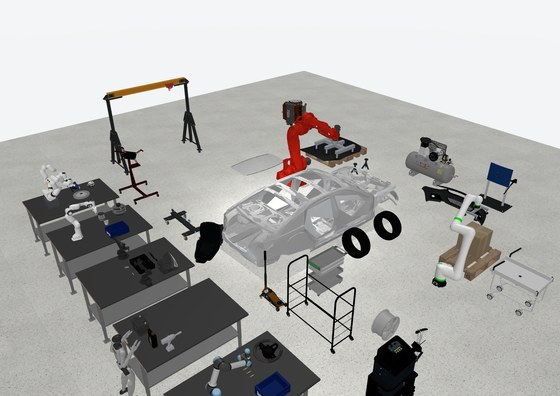
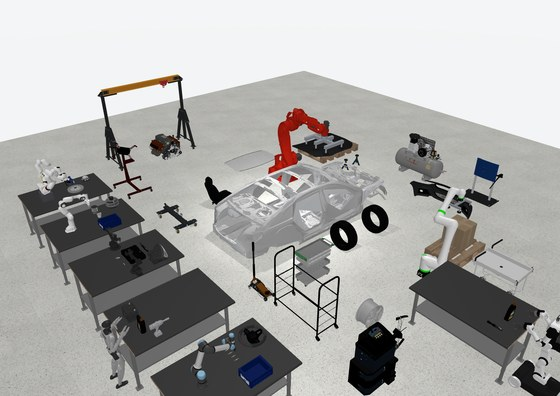
Add the RB-Y1 wheeled humanoid to the Factory and Car assembly scenes
A robot on wheels has an open cell (no work-box walls), so it can drive around the
whole scene. Each scene now has eight robots.

Claude-Session: https://claude.ai/code/session_015thBKAjNfHc5SK4ESAEDUz

Changed region(s): [[0.0304, 0.1818, 1.0, 1.0], [0.9714, 0.697, 1.0, 0.7273], [0.9411, 0.6667, 0.9714, 0.697]]

diff --git a/playground/static/index.html b/playground/static/index.html
@@ -1555,11 +1555,11 @@ function drawStarter() {
     <div class="tcard"><img src="/pg/static/scene_wetlab.jpg" alt="Four robots in a wet lab"><div class="rx"><div><b>Wet lab scene</b><div class="small">A whole wet lab: four benches, biosafety cabinet, fume hood, CO2 incubator and lab fridge. Four robots, each with a task ready: centrifuge, plate reader, jar lid and tube rack.</div></div>
     <div class="tags"><span class="tag">4 robots · UR5e, Franka, FR3 Duo, G1</span></div>
     <button class="primary" data-preset="wetlab">Add to lab</button></div></div>
-    <div class="tcard"><img src="/pg/static/scene_factory.jpg" alt="Seven robots on a factory assembly line"><div class="rx"><div><b>Factory scene</b><div class="small">An assembly line: a roller conveyor with totes and boxes, six assembly benches, pallet racks and a forklift. Seven robots, each with a task ready: pegs, a task board, a gearbox, breakers, cable plugs, a valve and stacking boxes.</div></div>
-    <div class="tags"><span class="tag">7 robots · Franka, UR5e, FR3 Duo, ALOHA, PiPER, G1, FANUC CRX-30iA</span></div>
+    <div class="tcard"><img src="/pg/static/scene_factory.jpg" alt="Eight robots on a factory assembly line"><div class="rx"><div><b>Factory scene</b><div class="small">An assembly line: a roller conveyor with totes and boxes, six assembly benches, pallet racks and a forklift. Eight robots, each with a task ready: pegs, a task board, a gearbox, breakers, cable plugs, a valve, stacking boxes, and a wheeled humanoid that drives around the line.</div></div>
+    <div class="tags"><span class="tag">8 robots · Franka, UR5e, FR3 Duo, ALOHA, PiPER, G1, FANUC CRX-30iA, RB-Y1</span></div>
     <button class="primary" data-preset="factory">Add to lab</button></div></div>
-    <div class="tcard"><img src="/pg/static/scene_car.jpg" alt="Seven robots building a car"><div class="rx"><div><b>Car assembly scene</b><div class="small">A car body with a 220 kg Comau arm that lifts the hood on by vacuum, a FANUC arm, and benches for brakes, engine parts, electrics and tools. Seven robots, each with a task ready.</div></div>
-    <div class="tags"><span class="tag">7 robots · Comau N-220, FANUC CRX-30iA, FR3 Duo, Franka, ALOHA, G1, UR5e</span></div>
+    <div class="tcard"><img src="/pg/static/scene_car.jpg" alt="Eight robots building a car"><div class="rx"><div><b>Car assembly scene</b><div class="small">A car body with a 220 kg Comau arm that lifts the hood on by vacuum, a FANUC arm, and benches for brakes, engine parts, electrics and tools, and a wheeled humanoid that drives to the car. Eight robots, each with a task ready.</div></div>
+    <div class="tags"><span class="tag">8 robots · Comau N-220, FANUC CRX-30iA, FR3 Duo, Franka, ALOHA, G1, UR5e, RB-Y1</span></div>
     <button class="primary" data-preset="car">Add to lab</button></div></div>`;
   $('rcards').querySelectorAll('button[data-r]').forEach(b => b.onclick = () => startPlacing(b.dataset.r, b.dataset.kind || 'table'));
   $('rcards').querySelectorAll('button[data-preset]').forEach(b => b.onclick = () => { closeAdd(); window.sceneGen && window.sceneGen.preset(b.dataset.preset); });

diff --git a/playground/scenegen.py b/playground/scenegen.py
@@ -546,8 +546,8 @@ SLEEP = {"flag": {"sleep": True}, "option": {"sleep_tolerance": 0.01}}
 PRESETS["factory"] = {
     "title": "Factory", "label": "Factory",
     "plan": "An assembly line: a roller conveyor down the middle carrying totes and boxes, six assembly "
-            "benches along it, a FANUC arm stacking boxes on a pallet at the end, and pallet racks, a "
-            "forklift and drums around it.",
+            "benches along it, a FANUC arm stacking boxes on a pallet at the end, a wheeled humanoid that "
+            "drives around the line, and pallet racks, a forklift and drums around it.",
     "settings": SLEEP,
     "stations": [
         {"robot": "franka", "kind": "table", "x": -3.2, "y": 2.05, "yaw": -90,
@@ -564,6 +564,9 @@ PRESETS["factory"] = {
          "task": "Turn the ball valve's handle a quarter turn to close the valve."},
         {"robot": "crx30ia", "kind": "pallet", "x": 2.8, "y": -1.2, "yaw": -90,
          "task": "Pick the cardboard box up off the roller conveyor with the vacuum tool and set it down on the pallet."},
+        # a wheeled humanoid at the head of the line: its cell is open, so it can drive anywhere
+        {"robot": "rby1", "kind": "conveyor", "x": -5.07, "y": 0.0, "yaw": 90,
+         "task": "Pick up the air ratchet from the conveyor in front of you, drive around the end of the conveyor to the steel drums, and set it down on top of a drum."},
     ],
     "furniture": [
         {"item": "roller_conveyor", "x": -3.03, "y": 0.0, "yaw": 90, "gap": 0},
@@ -582,7 +585,7 @@ PRESETS["factory"] = {
         {"item": "safety_fence", "x": 2.2, "y": -3.0, "yaw": 0},
         {"item": "modular_workbench", "x": -5.4, "y": -2.2, "yaw": -90},
         {"item": "shop_cart", "x": 2.3, "y": 3.9, "yaw": 0},
-        {"item": "pallet_jack", "x": -5.3, "y": -0.3, "yaw": 90},
+        {"item": "pallet_jack", "x": 4.9, "y": 3.2, "yaw": 0},
     ],
     "objects": [
         # on the conveyor (furniture 0-2: its own long side is its y)
@@ -605,6 +608,8 @@ PRESETS["factory"] = {
         {"item": "connector_pack", "on": "station", "station": 4, "x": 0.1, "y": 0.0, "yaw": 0},
         {"item": "ball_valve", "on": "station", "station": 5, "x": -0.6, "y": 0.0, "yaw": 90},
         {"item": "toolbox", "on": "station", "station": 5, "x": -0.55, "y": -0.42, "yaw": 0},
+        {"item": "air_ratchet", "on": "station", "station": 7, "x": -0.25, "y": 0.0, "yaw": 90},
+        {"item": "load_carrier", "on": "station", "station": 7, "x": 0.0, "y": -0.6, "yaw": 0},
     ],
 }
 
@@ -612,7 +617,7 @@ PRESETS["car"] = {
     "title": "Car assembly", "label": "Car assembly",
     "plan": "A car assembly bay: a car body in the middle with a big Comau arm that lifts the hood and "
             "windscreen onto it, a FANUC arm moving boxed parts, benches for brakes, engine parts, "
-            "electrics and tools, and garage equipment around them.",
+            "electrics and tools, a wheeled humanoid that drives to the car, and garage equipment around them.",
     "settings": SLEEP,
     "stations": [
         {"robot": "n220", "kind": "car", "x": 0.0, "y": 0.0, "yaw": 0,
@@ -629,6 +634,9 @@ PRESETS["car"] = {
          "task": "Pick up the bottle of engine oil and stand it next to the car battery."},
         {"robot": "ur5e", "kind": "table", "x": 3.4, "y": -4.7, "yaw": 90,
          "task": "Put the four spark plugs in the blue crate."},
+        # a wheeled humanoid: its cell is open, so it can drive to the car
+        {"robot": "rby1", "kind": "table", "x": 4.9, "y": -0.6, "yaw": 180,
+         "task": "Pick up the bottle of engine oil from your table, drive to the front of the car, and put the bottle down on the floor next to the front bumper."},
     ],
     "furniture": [
         {"item": "pallet", "x": -2.6, "y": 3.0, "yaw": 0, "gap": 0},      # 0, 1: the hood's pallets
@@ -680,6 +688,8 @@ PRESETS["car"] = {
         {"item": "spark_plug", "on": "station", "station": 6, "x": 0.2, "y": 0.21, "yaw": 0},
         {"item": "spark_plug", "on": "station", "station": 6, "x": 0.2, "y": 0.29, "yaw": 0},
         {"item": "steering_wheel", "on": "station", "station": 6, "x": 0.6, "y": 0.2, "yaw": 0},
+        {"item": "engine_oil", "on": "station", "station": 7, "x": -0.6, "y": 0.0, "yaw": 0},
+        {"item": "air_ratchet", "on": "station", "station": 7, "x": -0.55, "y": 0.35, "yaw": 0},
     ],
 }
 

diff --git a/tests/test_factory_car.py b/tests/test_factory_car.py
@@ -120,7 +120,7 @@ def test_ready_made_scene_builds_whole(name):
     lay = G.PRESETS[name]
     assert b.phase == "done", b.error
     assert b.skipped == []
-    assert len(sim.stations) == len(lay["stations"]) == 7
+    assert len(sim.stations) == len(lay["stations"]) == 8
     assert len(b.objects) == len(lay["furniture"]) + len(lay["objects"])
     assert sorted(v["task"] for v in sess.unsent.values()) == sorted(s["task"] for s in lay["stations"])
     m, d = sim.m, sim.d
@@ -136,4 +136,21 @@ def test_ready_made_scene_builds_whole(name):
     t = time.perf_counter()
     mujoco.mj_step(m, d, 500)
     assert (time.perf_counter() - t) < 5.0                      # 0.5 s of physics, well under 5 s
+    sim.stop_threads()
+
+
+def test_wheeled_humanoid_drives_out_of_its_cell():
+    """The RB-Y1's cell has no work-box walls: it backs over 1.5 m away from its table, far past where
+    a table arm's walls would stand."""
+    sim = PlaygroundSim(stations=[])
+    uid = sim.add_station("rby1", (0.0, 0.0), 0.0, "table", starter=False)
+    st, r = sim.station(uid), sim.arms[uid]
+    assert st.open
+    assert not any(sim.m.geom(g).name.startswith(f"{st.prefix}wall") for g in range(sim.m.ngeom))
+    _step(sim, 0.5)
+    x0 = float(sim.d.xpos[r.base_body][0])
+    for _ in range(4):
+        _go(sim, r.drive(-0.5, 0, 1.2))
+    assert sim.d.xpos[r.base_body][0] - x0 < -1.5
+    assert abs(sim.d.xpos[r.base_body][2]) < 0.2                 # still upright on its wheels
     sim.stop_threads()

diff --git a/playground/world.py b/playground/world.py
@@ -308,8 +308,10 @@ class Station:
 
     @property
     def open(self) -> bool:
-        """An open cell: no work-box walls, so its robot's cameras see what is around it."""
-        return bool(self.spec.get("open"))
+        """An open cell: no work-box walls, so its robot's cameras see what is around it. A
+        robot on wheels (the RB-Y1) always has one: it drives off to the rest of the lab."""
+        from wetlabsim import scene as WS
+        return bool(self.spec.get("open") or WS.ROBOTS[self.robot].get("mobile"))
 
     @property
     def stand_gap(self) -> float:

diff --git a/README.md b/README.md
@@ -130,15 +130,16 @@ Three modes, picked in the header:
   `agent/piper`). The PiPER is smaller (626 mm reach, and pointing straight down it reaches no
   higher than 12 cm above its base), so each lab has its own layout for it, with the arm
   nearer the kit; the scoreboard lists each model with each robot.
-- **Factory and Car assembly scenes** (+ Station): two ready-made scenes of seven robots each,
+- **Factory and Car assembly scenes** (+ Station): two ready-made scenes of eight robots each,
   every robot with a task filled in (`PRESETS` in `playground/scenegen.py`). The factory is a
   roller conveyor with six assembly benches (ForgeCAD's peg, task board, gearbox, breaker and
   connector kits) and a pallet cell; the car bay is NVIDIA's car body with its hood, parts and
   garage equipment. Two floor-standing arms do the heavy lifting, each with a vacuum tool
   (MuJoCo's adhesion actuator): the Comau N-220 (220 kg) and the FANUC CRX-30iA (30 kg), both
   converted from their makers' SimReady packages (`playground/tools/convert_simready_arm.py`,
-  manuals in `agent/n220` and `agent/crx30ia`). Both scenes turn on MuJoCo's sleeping, so parts
-  nobody touches cost no physics time.
+  manuals in `agent/n220` and `agent/crx30ia`). Each scene also has a wheeled humanoid (the RB-Y1) whose
+  cell has no walls, so it can drive around the whole scene. Both scenes turn on MuJoCo's
+  sleeping, so parts nobody touches cost no physics time.
 - **Wet Lab**: the robot cell's own bench and its 8 tasks (`wetlabsim/tasks.py`), each scored
   at the end by the task's own check, as in the robot cell's evals. Results go to
   `runs/playground/wetlab_results.jsonl`. 15 minutes per run.
